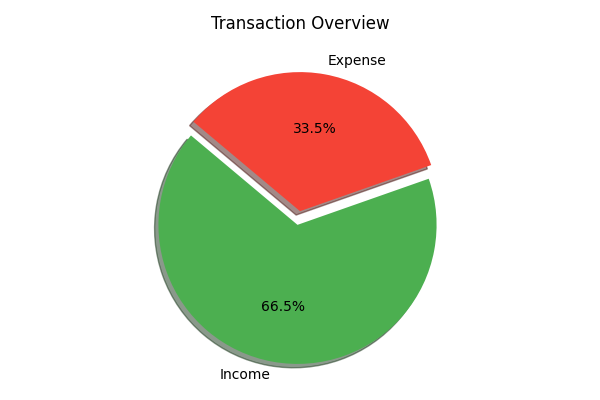
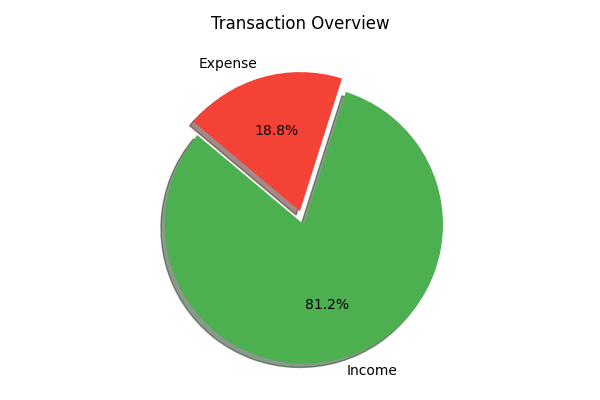
Push

diff --git a/templates/add_transaction.html b/templates/add_transaction.html
@@ -6,49 +6,74 @@
     <title>Add Transaction - Finance Tracker</title>
     <link rel="stylesheet" href="https://cdnjs.cloudflare.com/ajax/libs/bulma/0.9.4/css/bulma.min.css">
 </head>
-<body style="background-color: #333; color: white;">
-    <section class="hero is-black is-fullheight is-flex is-align-items-center">
+<body class="has-background-dark has-text-white">
+    <section class="hero is-fullheight">
         <div class="hero-body">
-            <div class="container has-text-centered">
-                <h1 class="title" style="color: black;">Add Transaction</h1>
-                <div class="box" style="max-width: 500px; margin: 0 auto;">
-                    <form method="POST">
-                        {{ form.hidden_tag() }}
-                        <div class="field">
-                            <label class="label" style="color: black;">Amount</label>
-                            <div class="control">
-                                {{ form.amount(class="input", style="background-color: #444; color: white; border: 1px solid #555;") }}
+            <div class="container">
+                <div class="columns is-centered">
+                    <div class="column is-half">
+                        <!-- Title -->
+                        <h1 class="title has-text-centered has-text-light">Add Transaction</h1>
+
+                        <!-- Form Box -->
+                        <div class="box">
+                            <form method="POST">
+                                {{ form.hidden_tag() }}
+                                
+                                <!-- Amount Field -->
+                                <div class="field">
+                                    <label class="label">Amount</label>
+                                    <div class="control">
+                                        {{ form.amount(class="input is-dark") }}
+                                    </div>
+                                </div>
+
+                                <!-- Type Field -->
+                                <div class="field">
+                                    <label class="label">Type</label>
+                                    <div class="control">
+                                        {{ form.type(class="select is-dark") }}
+                                    </div>
+                                </div>
+
+                                <!-- Category Field -->
+                                <div class="field">
+                                    <label class="label">Category</label>
+                                    <div class="control">
+                                        {{ form.category(class="input is-dark") }}
+                                    </div>
+                                </div>
+
+                                <!-- Date Field -->
+                                <div class="field">
+                                    <label class="label">Date</label>
+                                    <div class="control">
+                                        {{ form.date(class="input is-dark") }}
+                                    </div>
+                                </div>
+
+                                <!-- Note Field -->
+                                <div class="field">
+                                    <label class="label">Note</label>
+                                    <div class="control">
+                                        {{ form.note(class="textarea is-dark") }}
+                                    </div>
+                                </div>
+
+                                <!-- Submit Button -->
+                                <div class="field">
+                                    <button type="submit" class="button is-dark is-fullwidth">
+                                        Add Transaction
+                                    </button>
+                                </div>
+                            </form>
+
+                            <!-- Back to Dashboard Link -->
+                            <div class="has-text-centered mt-4">
+                                <a href="/dashboard" class="has-text-grey-light">Back to Dashboard</a>
                             </div>
                         </div>
-                        <div class="field">
-                            <label class="label" style="color: black;">Type</label>
-                            <div class="control">
-                                {{ form.type(class="select", style="background-color: #444; color: white; border: 1px solid #555;") }}
-                            </div>
-                        </div>
-                        <div class="field">
-                            <label class="label" style="color: black;">Category</label>
-                            <div class="control">
-                                {{ form.category(class="input", style="background-color: #444; color: white; border: 1px solid #555;") }}
-                            </div>
-                        </div>
-                        <div class="field">
-                            <label class="label" style="color: black;">Date</label>
-                            <div class="control">
-                                {{ form.date(class="input", style="background-color: #444; color: white; border: 1px solid #555;") }}
-                            </div>
-                        </div>
-                        <div class="field">
-                            <label class="label" style="color: black;">Note</label>
-                            <div class="control">
-                                {{ form.note(class="textarea", style="background-color: #444; color: white; border: 1px solid #555;") }}
-                            </div>
-                        </div>
-                        <div class="field">
-                            <button type="submit" class="button is-fullwidth" style="background-color: #000; color: white;">Add Transaction</button>
-                        </div>
-                    </form>
-                    <a href="/dashboard" style="color: #808080; text-decoration: underline; margin-top: 1rem; display: inline-block;">Back to Dashboard</a>
+                    </div>
                 </div>
             </div>
         </div>

diff --git a/templates/goals_viewer.html b/templates/goals_viewer.html
@@ -1,0 +1,50 @@
+<!DOCTYPE html>
+<html lang="en">
+<head>
+    <meta charset="UTF-8">
+    <meta name="viewport" content="width=device-width, initial-scale=1.0">
+    <title>Goals Viewer</title>
+    <link rel="stylesheet" href="https://cdnjs.cloudflare.com/ajax/libs/bulma/0.9.4/css/bulma.min.css">
+</head>
+<body style="background-color: #121212; color: #ffffff; font-family: 'Roboto', sans-serif;">
+
+    <section class="hero is-dark">
+        <div class="hero-body">
+            <div class="container">
+                <h1 class="title has-text-light">Goals Viewer</h1>
+                <h2 class="subtitle has-text-grey-light">Track your goals and progress</h2>
+            </div>
+        </div>
+    </section>
+
+    <section class="section">
+        <div class="container">
+            <h2 class="title has-text-light">Your Goals</h2>
+            <table class="table is-fullwidth is-striped">
+                <thead>
+                    <tr style="background-color: #1b1b1b;">
+                        <th class="has-text-light">Goal Name</th>
+                        <th class="has-text-light">Target Amount</th>
+                        <th class="has-text-light">Current Amount</th>
+                        <th class="has-text-light">Due Date</th>
+                        <th class="has-text-light">Owner</th>
+                    </tr>
+                </thead>
+                <tbody>
+                    {% for goal in goals %}
+                    <tr style="background-color: white;">
+                        <td>{{ goal.goal_name }}</td>
+                        <td>${{ goal.target_amount }}</td>
+                        <td>${{ goal.current_amount }}</td>
+                        <td>{{ goal.due_date }}</td>
+                        <td>{{ goal.owner_name }}</td>
+                    </tr>
+                    {% endfor %}
+                </tbody>
+            </table>
+            <a href="/dashboard" class="button is-link is-light">Back to Dashboard</a>
+        </div>
+    </section>
+
+</body>
+</html>

diff --git a/templates/bast.html b/templates/bast.html
@@ -1,0 +1,43 @@
+<!-- templates/base.html -->
+<!DOCTYPE html>
+<html lang="en">
+<head>
+    <meta charset="UTF-8">
+    <title>Finance App</title>
+    <!-- Include your CSS files here -->
+</head>
+<body>
+    <!-- Flash Messages -->
+    {% with messages = get_flashed_messages(with_categories=true) %}
+      {% if messages %}
+        <div class="container mt-4">
+          {% for category, message in messages %}
+            <div class="alert alert-{{ category }} alert-dismissible fade show" role="alert">
+              {{ message }}
+              <button type="button" class="btn-close" data-bs-dismiss="alert" aria-label="Close"></button>
+            </div>
+          {% endfor %}
+        </div>
+      {% endif %}
+    {% endwith %}
+
+    <!-- Navigation Bar -->
+    <nav>
+        <!-- Your navigation links -->
+        {% if 'user_id' in session %}
+            <a href="{{ url_for('dashboard') }}">Dashboard</a>
+            <a href="{{ url_for('logout') }}">Logout</a>
+        {% else %}
+            <a href="{{ url_for('signup') }}">Sign Up</a>
+            <a href="{{ url_for('login') }}">Login</a>
+        {% endif %}
+    </nav>
+
+    <!-- Main Content -->
+    <div class="container">
+        {% block content %}{% endblock %}
+    </div>
+
+    <!-- Include your JS files here -->
+</body>
+</html>

diff --git a/templates/dashboard.html b/templates/dashboard.html
@@ -32,10 +32,14 @@
             background-color: #E57373;
             border: none;
         }
+        .button.is-info {
+            background-color: #64B5F6;
+            border: none;
+        }
         .button:hover {
             opacity: 0.9;
         }
-        table {
+        /* table {
             background-color: #2C2C3C;
             color: #2C2C3C;
         }
@@ -47,7 +51,7 @@
         }
         td {
             color: #E0E0E0;
-        }
+        } */
         .box {
             background-color: #2C2C3C;
             border-radius: 12px;
@@ -71,9 +75,11 @@
     <section class="section">
         <div class="container">
             <div class="buttons">
-                <a href="{{ url_for('add_transaction') }}" class="button is-success">Add Transaction</a>
-                <a href="{{ url_for('set_goal') }}" class="button is-link">Set Goal</a>
-                <a href="{{ url_for('logout') }}" class="button is-danger">Logout</a>
+               
+                    <a href="/add-transaction" class="button is-success is-light">Add Transaction</a>
+                    <a href="/set-goal" class="button is-link is-light">Set Goal</a>
+                    <a href="{{ url_for('goals_viewer') }}" class="button is-info is-light">View Goals</a>
+                    <a href="{{ url_for('logout') }}" class="button is-danger">Logout</a>
             </div>
             <h2 class="title">Your Transactions</h2>
             {% if transactions %}
@@ -90,7 +96,7 @@
                     <tbody>
                         {% for transaction in transactions %}
                         <tr>
-                            <td style="color: {% if transaction.type == 'income' %}#81C784{% else %}#E57373{% endif %};">
+                            <td>
                                 ${{ "{:,.2f}".format(transaction.amount) }}
                             </td>
                             <td>{{ transaction.type.capitalize() }}</td>
@@ -112,8 +118,6 @@
                         Current Balance: ${{ "{:,.2f}".format(current_balance) }}
                     </p>
                 </div>
-            </div>
-        </div>
     </section>
     <script>
         const incomeData = {{ income_data | tojson }};

diff --git a/app.py b/app.py
@@ -28,6 +28,7 @@ os.makedirs(STATIC_DIR, exist_ok=True)
 
 # Models
 class User(db.Model):
+    # __tablename__= 'users'
     id = db.Column(db.Integer, primary_key=True)
     username = db.Column(db.String(50), unique=True, nullable=False)
     email = db.Column(db.String(120), unique=True, nullable=False)
@@ -36,6 +37,7 @@ class User(db.Model):
     goals = db.relationship('Goal', backref='owner', lazy=True)
 
 class Transaction(db.Model):
+    # __tablename__= 'transactions'
     id = db.Column(db.Integer, primary_key=True)
     amount = db.Column(db.Float, nullable=False)
     type = db.Column(db.String(10), nullable=False)  # 'income' or 'expense'
@@ -45,6 +47,7 @@ class Transaction(db.Model):
     user_id = db.Column(db.Integer, db.ForeignKey('user.id'), nullable=False)
 
 class Goal(db.Model):
+    # __tablename__= 'goals'
     id = db.Column(db.Integer, primary_key=True)
     goal_name = db.Column(db.String(50), nullable=False)
     target_amount = db.Column(db.Float, nullable=False)
@@ -225,6 +228,44 @@ def set_goal():
         return redirect(url_for('dashboard'))
     
     return render_template('set_goal.html', form=form)
+
[email redacted]('/goals_viewer')
+def goals_viewer():
+    if 'user_id' not in session:
+        flash('Please log in to access this page.', 'danger')
+        return redirect(url_for('login'))
+
+    try:
+        # Query goals and join with the user table
+        results = db.session.query(
+            Goal.id.label('goal_id'),
+            Goal.goal_name,
+            Goal.target_amount,
+            Goal.current_amount,
+            Goal.due_date,
+            User.username.label('owner_name')
+        ).join(User, Goal.user_id == User.id).filter(
+            User.id == session['user_id']
+        ).order_by(Goal.due_date.asc()).all()
+
+        # Transform query results into the desired structure
+        goals_data = [
+            {
+                "goal_id": row.goal_id,
+                "goal_name": row.goal_name,
+                "target_amount": row.target_amount,
+                "current_amount": row.current_amount,
+                "due_date": row.due_date.strftime('%Y-%m-%d'),
+                "owner_name": row.owner_name
+            }
+            for row in results
+        ]
+
+        return render_template('goals_viewer.html', goals=goals_data)
+    
+    except Exception as e:
+        flash(f"An error occurred: {str(e)}", "danger")
+        return redirect(url_for('dashboard'))
 
 @app.route('/logout')
 def logout():